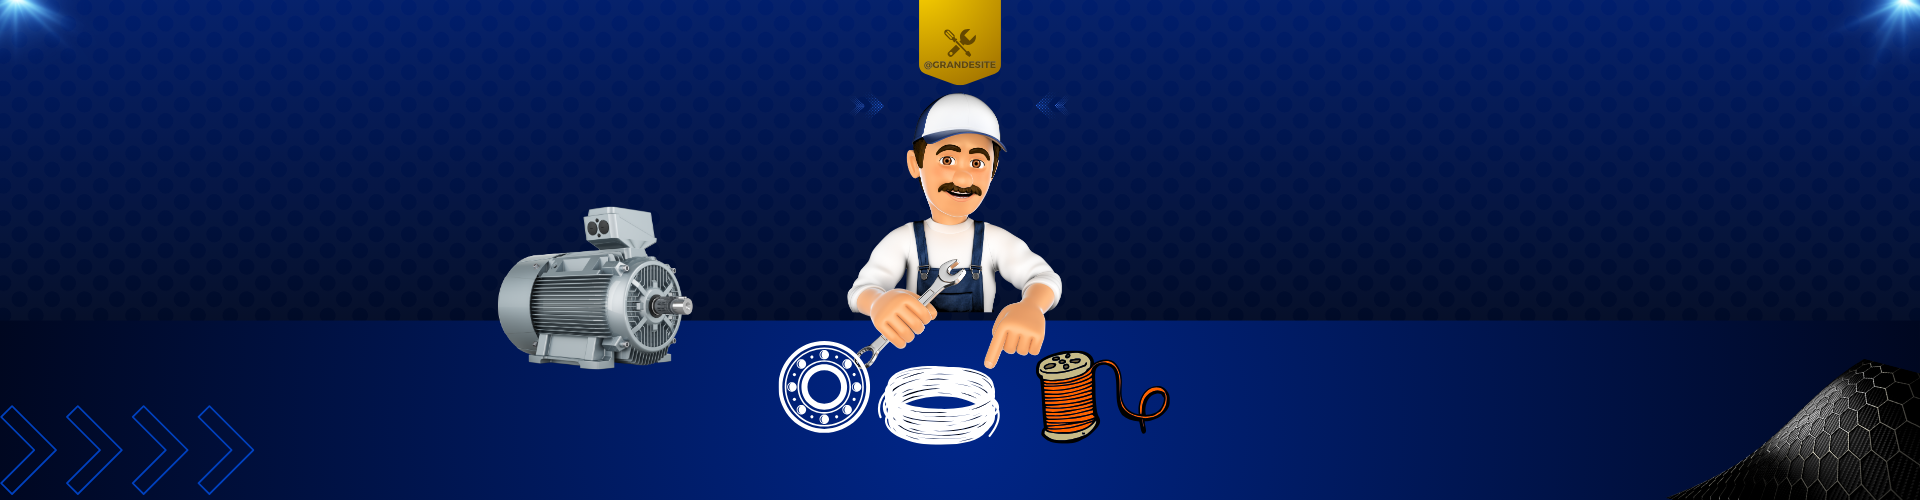
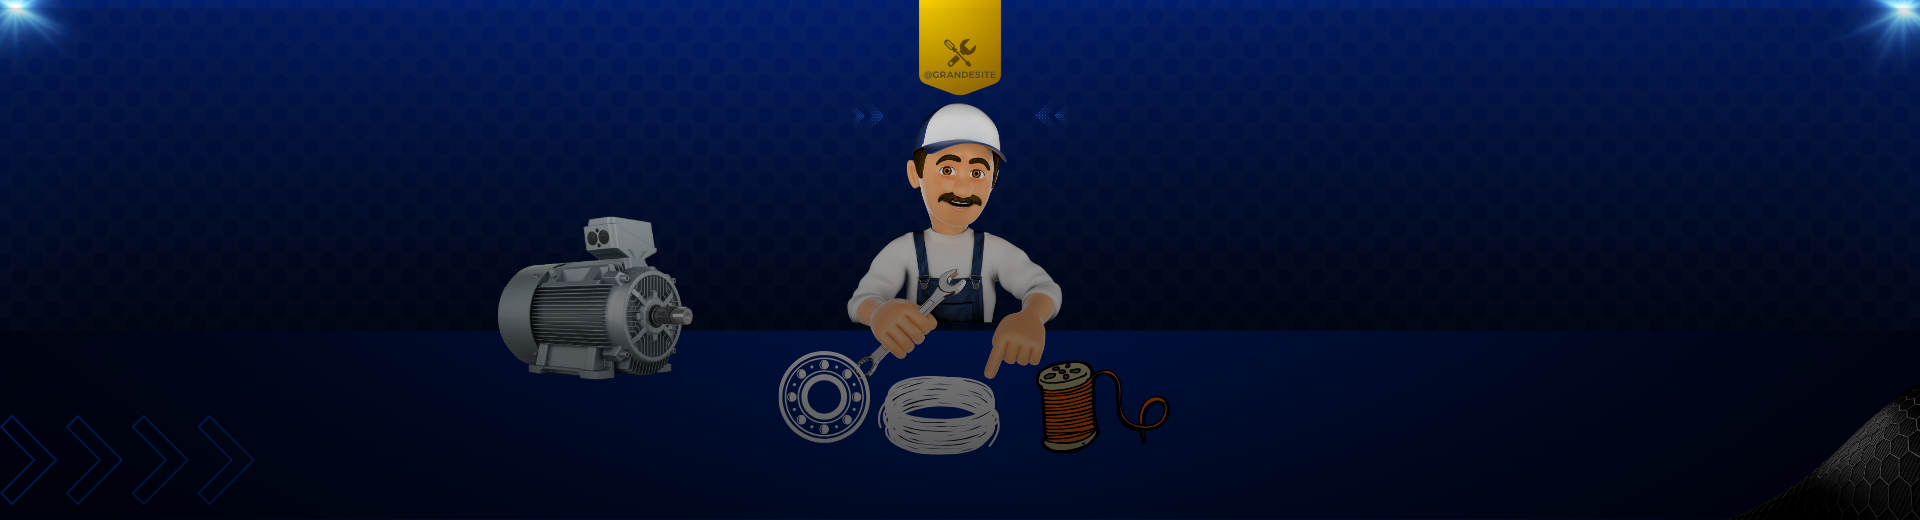
Add files via upload

diff --git a/index.html b/index.html
@@ -77,21 +77,21 @@
   
 
     <div id="carouselExampleCaptions" class="carousel slide">
-      <div class="carousel-indicators container-fluid">
+      <div class="carousel-indicators">
         <button type="button" data-bs-target="#carouselExampleCaptions" data-bs-slide-to="0" class="active" aria-current="true" aria-label="Slide 1"></button>
         <button type="button" data-bs-target="#carouselExampleCaptions" data-bs-slide-to="1" aria-label="Slide 2"></button>
         <button type="button" data-bs-target="#carouselExampleCaptions" data-bs-slide-to="2" aria-label="Slide 3"></button>
       </div>
       <div class="carousel-inner"style="height: 100%;">
         <div class="carousel-item active" >
-          <img src="Story Tudo para Seu Carro Automotivo Azul.png" class="d-block w-100 img-fluid" alt="...">
+          <img src="Story Tudo para Seu Carro Automotivo Azul.png" class="d-block img-fluid" alt="..." style="height: 520px;">
           <div class="carousel-caption d-none d-md-block">
-            <h5>First slide label</h5>
-            <p>Some representative placeholder content for the first slide.</p>
+            <h5>MATERIAIS PARA ENROLAMENTO DE MOTOR ELÉTRICO</h5>
+            <button>Saiba Mais</button>
           </div>
         </div>
         <div class="carousel-item">
-          <img src="Story Tudo para Seu Carro Automotivo Azul.png" class="d-block w-100 img-fluid" alt="...">
+          <img src="Story Tudo para Seu Carro Automotivo Azul.png" class="d-block w-100 img-fluid" alt="..." style="height: 520px;">
           <div class="carousel-caption d-none d-md-block">
             <h5>Second slide label</h5>
             <p>Some representative placeholder content for the second slide.</p>
@@ -100,8 +100,8 @@
         <div class="carousel-item">
           <img src="..." class="d-block w-100" alt="...">
           <div class="carousel-caption d-none d-md-block">
-            <h5>Third slide label</h5>
-            <p>Some representative placeholder content for the third slide.</p>
+            <h5>MATERIAIS PARA BOMBAS DE PISCINA</h5>
+            <button>Saiba Mais</button>
           </div>
         </div>
         <button class="carousel-control-prev bg-transparent border-0" type="button" data-bs-target="#carouselExampleCaptions" data-bs-slide="prev">
